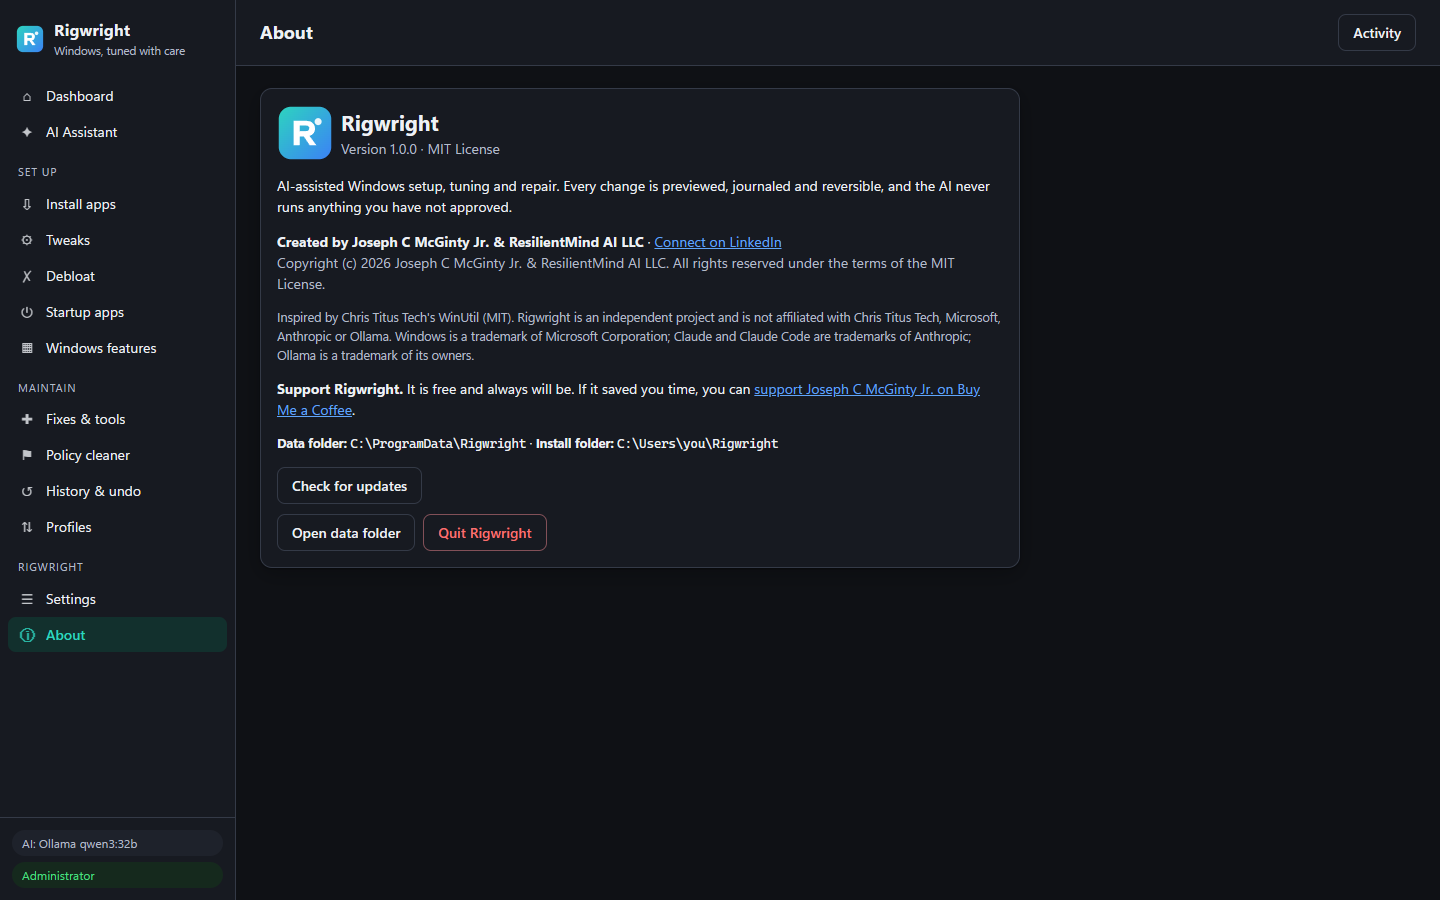
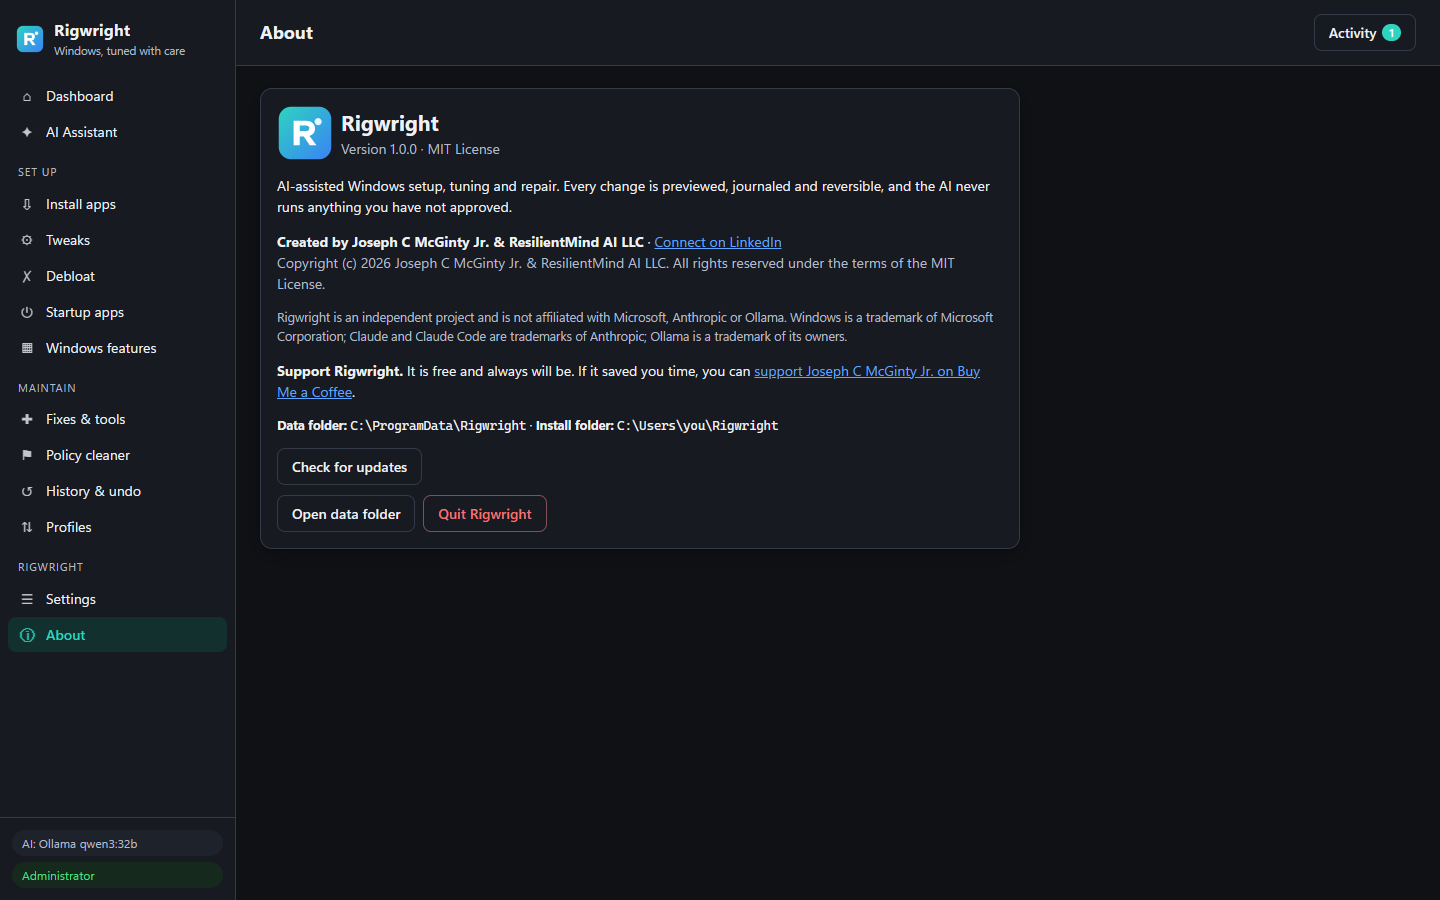
Catalog additions for issues #1-#14, docs cleanup, clone and update-check notes
- 5 new tweaks, 6 new apps, 15 OEM debloat entries, WebView2 repair fix
- Remove third-party project references from README, About page and
  docs/COMPARISON.md; recapture About screenshots
- README: clone from a normal folder with --depth 1; troubleshooting entry
  for HTTP/2 clone resets
- Update check: clearer message while the repository is not public

Closes #2, #3, #4, #6, #7, #9, #10, #11, #13, #14

Changed region(s): [[0.1875, 0.3422, 0.6875, 0.6222], [0.9062, 0.0311, 0.9688, 0.0622]]

diff --git a/web/app.js b/web/app.js
@@ -1214,7 +1214,7 @@ pages.about = async (v) => {
       <div class="row"><img src="icon.svg" alt="" width="56" height="56"><div><h2 style="margin:0">Rigwright</h2><div class="muted">Version ${esc(a.version)} &middot; ${esc(a.license)} License</div></div></div>
       <p>AI-assisted Windows setup, tuning and repair. Every change is previewed, journaled and reversible, and the AI never runs anything you have not approved.</p>
       <p><b>Created by Joseph C McGinty Jr. &amp; ResilientMind AI LLC</b> &middot; <a href="https://www.linkedin.com/in/joseph-mcginty-jr/" target="_blank" rel="noopener noreferrer">Connect on LinkedIn</a><br><span class="muted">${esc(a.copyright)}. All rights reserved under the terms of the MIT License.</span></p>
-      <p class="small muted">Inspired by Chris Titus Tech's WinUtil (MIT). Rigwright is an independent project and is not affiliated with Chris Titus Tech, Microsoft, Anthropic or Ollama. Windows is a trademark of Microsoft Corporation; Claude and Claude Code are trademarks of Anthropic; Ollama is a trademark of its owners.</p>
+      <p class="small muted">Rigwright is an independent project and is not affiliated with Microsoft, Anthropic or Ollama. Windows is a trademark of Microsoft Corporation; Claude and Claude Code are trademarks of Anthropic; Ollama is a trademark of its owners.</p>
       <p><b>Support Rigwright.</b> It is free and always will be. If it saved you time, you can <a href="https://buymeacoffee.com/jcinc" target="_blank" rel="noopener noreferrer">support Joseph C McGinty Jr. on Buy Me a Coffee</a>.</p>
       <p class="small"><b>Data folder:</b> <span class="mono">${esc(a.dataDir)}</span> &middot; <b>Install folder:</b> <span class="mono">${esc(a.root)}</span></p>
       <div class="row"><button class="btn" id="chkUpd">Check for updates</button><span id="updRes" class="small muted"></span></div>

diff --git a/docs/COMPARISON.md b/docs/COMPARISON.md
@@ -1,11 +1,11 @@
-# Rigwright vs. WinUtil and similar tools
+# Rigwright compared with typical Windows tweak tools
 
-Rigwright started from a review of Chris Titus Tech's **WinUtil**: its repository, documentation, GitHub issues and
-discussions. I also looked at O&O ShutUp10++, Win11Debloat, Sophia Script, privacy.sexy, Winhance, Winpilot and
-UniGetUI. WinUtil is a great project with a huge community. This page records what users praised, what they
-complained about, and how Rigwright responds to each point.
+Rigwright started from a review of the public issue trackers, forums and documentation of popular Windows
+tweak, debloat and setup tools (among them O&O ShutUp10++, Win11Debloat, Sophia Script, privacy.sexy, Winhance,
+Winpilot and UniGetUI). This page records what users of such tools praise, what they complain about, and how
+Rigwright responds to each point.
 
-## What WinUtil users love (kept and expanded)
+## What users like about all-in-one tools (kept and expanded)
 
 | Praised | In Rigwright |
 |---|---|
@@ -17,20 +17,20 @@ complained about, and how Rigwright responds to each point.
 
 ## Common complaints and how Rigwright handles them
 
-| Complaint (examples from WinUtil issues) | Rigwright's approach |
+| Complaint (recurring across tweak-tool issue trackers) | Rigwright's approach |
 |---|---|
-| **Undo doesn't really undo** (#905, #487, #4242, discussion #1692). Undo writes hard-coded "defaults", which leaves policy keys behind and the "managed by your organization" banner. | **State-capture journal**: the true original value is recorded before the first change and restored exactly. Values that didn't exist are deleted. A separate **Policy cleaner** removes leftover policies after a full backup. |
-| **Tweaks drift or regress after Windows updates.** The "Set services to manual" list went stale (#3876), and preference toggles broke (#3189). | Live **state detection** for every tweak, plus **drift detection** with one-click reapply. Builds are checked with `minBuild` / `maxBuild`. The services tweak is a short, conservative list of services switched to Manual, not Disabled. |
-| **Windows Update broken** (#976, "Creator leaves WaaSMedicSvc disabled", "Update profiles not working") | There is no "disable updates" option. **Protected services** cannot be disabled. Update options are deferral, version pin, pause and "no auto restart", all reversible. |
+| **Undo doesn't really undo.** Undo writes hard-coded "defaults", which leaves policy keys behind and the "managed by your organization" banner. | **State-capture journal**: the true original value is recorded before the first change and restored exactly. Values that didn't exist are deleted. A separate **Policy cleaner** removes leftover policies after a full backup. |
+| **Tweaks drift or regress after Windows updates.** Service lists go stale and preference toggles break on new builds. | Live **state detection** for every tweak, plus **drift detection** with one-click reapply. Builds are checked with `minBuild` / `maxBuild`. The services tweak is a short, conservative list of services switched to Manual, not Disabled. |
+| **Windows Update broken** by "disable updates" options that leave the update stack half-off. | There is no "disable updates" option. **Protected services** cannot be disabled. Update options are deferral, version pin, pause and "no auto restart", all reversible. |
 | **Collateral damage**: VPN without internet after IPv6/Teredo tweaks, Xbox services stuck, Edge removal breaking WebView2 apps | IPv6 is never disabled; there is a "Prefer IPv4" option instead. Xbox packages are marked "check note" and never pre-selected. Edge removal is not offered. Every tweak lists its side effects. The AI can spot a likely culprit in your recent history and suggest undoing it. |
-| **Automation hangs / UI freezes** (#4376) | Every operation is a background job, with a live log console, cancellation and a queue for changes. |
-| **No visibility into what a tweak does**, no dry run, thin logs | **Exact preview** (current → new for every value), daily logs, an action history, an exportable system report, and profile dry runs. |
+| **Automation hangs / UI freezes** during long jobs | Every operation is a background job, with a live log console, cancellation and a queue for changes. |
+| **No visibility into what a tweak does**, no dry run, thin logs | **Exact preview** (current -> new for every value), daily logs, an action history, an exportable system report, and profile dry runs. |
 | **`irm \| iex` trust problems and antivirus flags** | Distributed as a release zip with **SHA-256 sums** and a verification script. Nothing is downloaded and executed at runtime. The UI is local only and token-protected. |
-| **Explanations too thin** ("write better explanation for options") | Every tweak has a plain-language description and side effects. The AI can explain any tweak in context. |
-| **Category mistakes, stale app IDs** | The catalog test suite checks every winget ID against the live repository. All 127 are verified for 1.0.0. |
+| **Explanations too thin** | Every tweak has a plain-language description and side effects. The AI can explain any tweak in context. |
+| **Category mistakes, stale app IDs** | The catalog test suite checks every winget ID against the live repository. All are verified for each release. |
 | **Title bar clipped / small-screen issues** | Responsive layout that works down to phone width (useful with LAN access). |
 
-## Requested features that were missing (now included)
+## Frequently requested features that are included
 
 - A log console with readable per-step output
 - A full Defender scan button
@@ -53,8 +53,7 @@ complained about, and how Rigwright responds to each point.
 
 ## Not in 1.0 (roadmap)
 
-- **Image builder** (WinUtil's MicroWin / Win11 Creator): ISO customization, autounattend.xml, `$OEM$`, driver
-  injection.
+- **Image builder**: ISO customization, autounattend.xml, `$OEM$`, driver injection.
 - **Default User / Sysprep mode**: apply per-user tweaks to new accounts.
 - Scoop and more package sources.
 - CI that applies and undoes every tweak in Windows Sandbox VMs on each Insider build.

diff --git a/README.md b/README.md
@@ -31,7 +31,8 @@ If Windows shows "Windows protected your PC", click **More info → Run anyway**
 ```powershell
 # Option A - get the full app from source with Git (winget installs Git if you don't have it)
 winget install --id Git.Git -e
-git clone https://github.com/Subzero121800/RigWright.git
+cd ~\Downloads                      # any normal folder; not C:\Windows\System32
+git clone --depth 1 https://github.com/Subzero121800/RigWright.git
 cd RigWright
 .\Start-Rigwright.cmd
 
@@ -40,11 +41,13 @@ cd RigWright
 ```
 
 Running from source starts the PowerShell edition in its own app window. `Rigwright.exe` is included in the release zips.
+If the clone stops with `RPC failed; curl 92 HTTP/2 stream ... reset`, run `git config --global http.version HTTP/1.1` once and retry
+(see [docs/TROUBLESHOOTING.md](docs/TROUBLESHOOTING.md)).
 </details>
 
 ---
 
-Rigwright is a free, open-source all-in-one Windows utility in the spirit of Chris Titus Tech's [WinUtil](https://github.com/ChrisTitusTech/winutil). I rebuilt it around the problems users report most with tools like that: undo that doesn't really undo, tweaks that quietly break Windows Update or VPNs, a window that freezes during long jobs, no way to see exactly what will change, and having to trust `irm | iex`.
+Rigwright is a free, open-source all-in-one Windows utility. It was built around the problems people report most with Windows tweak tools: undo that doesn't really undo, tweaks that quietly break Windows Update or VPNs, a window that freezes during long jobs, no way to see exactly what will change, and having to trust `irm | iex`.
 
 On top of that, it adds an **AI assistant**. You describe what you want in plain English ("make this faster for gaming but keep Game Pass working", "my VPN connects but there's no internet") and get a reviewed, checkbox-by-checkbox plan. The assistant can use:
 
@@ -352,7 +355,7 @@ Rigwright/
 - [docs/ARCHITECTURE.md](docs/ARCHITECTURE.md): how the pieces fit together
 - [docs/AI.md](docs/AI.md): providers, models, the bridge, prompts and guard rails
 - [docs/TWEAK-SCHEMA.md](docs/TWEAK-SCHEMA.md): how to write a tweak, app, fix or preset
-- [docs/COMPARISON.md](docs/COMPARISON.md): what Rigwright does differently from WinUtil and similar tools, and why
+- [docs/COMPARISON.md](docs/COMPARISON.md): the problems with typical Windows tweak tools and how Rigwright handles each one
 - [docs/TROUBLESHOOTING.md](docs/TROUBLESHOOTING.md): common problems and fixes
 - [docs/PRIVACY.md](docs/PRIVACY.md): what data goes where, per AI provider
 - [docs/GOVERNED-AGENTS.md](docs/GOVERNED-AGENTS.md): *Governed agents on the desktop: the Rigwright pattern*. The AI proposes, a catalog validates, a human approves and a journal rolls back.
@@ -374,4 +377,4 @@ Rigwright is free and always will be. If it saved you time, you can
 **Created by Joseph C McGinty Jr. & ResilientMind AI LLC.** Connect on [LinkedIn](https://www.linkedin.com/in/joseph-mcginty-jr/).
 Copyright © 2026 Joseph C McGinty Jr. & ResilientMind AI LLC. Released under the [MIT License](LICENSE).
 
-Inspired by [Chris Titus Tech's WinUtil](https://github.com/ChrisTitusTech/winutil) (MIT) and informed by O&O ShutUp10++, Win11Debloat, Sophia Script, privacy.sexy and UniGetUI. Rigwright is an independent project, not affiliated with or endorsed by Chris Titus Tech, Microsoft, Anthropic or Ollama. Windows is a trademark of Microsoft Corporation. Claude and Claude Code are trademarks of Anthropic, PBC. Ollama is a trademark of its respective owner.
+Informed by the approaches of O&O ShutUp10++, Win11Debloat, Sophia Script, privacy.sexy and UniGetUI. Rigwright is an independent project, not affiliated with or endorsed by Microsoft, Anthropic or Ollama. Windows is a trademark of Microsoft Corporation. Claude and Claude Code are trademarks of Anthropic, PBC. Ollama is a trademark of its respective owner.

diff --git a/CHANGELOG.md b/CHANGELOG.md
@@ -10,6 +10,13 @@ All notable changes to Rigwright are documented here. The format follows
 The first public release combines the initial build below with these changes.
 
 ### Added
+- Tweaks: throttle Delivery Optimization in the background, disable Windows Spotlight on the desktop, hide the
+  "Learn about this picture" icon, disable the Connected Devices Platform service (side effects documented), and run
+  Storage Sense weekly (#2, #3, #4, #6, #7).
+- Apps: eM Client, Betterbird, Chocolatey, Chocolatey GUI, Shutter Encoder and Avidemux (#9, #10, #11).
+- Debloat: 15 MSI and Acer preinstalled-app entries with verified package names and Store ids (#13).
+- Fix: "Reset Microsoft Edge WebView2 runtime" (#14).
+- Interactive screenshot gallery (docs/gallery.html, served by GitHub Pages) and README slideshow.
 - **One-click "Install & connect Claude Code"** for people with a Claude subscription. It installs the official
   `Anthropic.ClaudeCode` winget package, adds it to PATH, opens `claude auth login --claudeai`, waits for sign-in,
   switches Rigwright to Claude Code and tests it. The Settings page shows live Claude Code status.

diff --git a/docs/TROUBLESHOOTING.md b/docs/TROUBLESHOOTING.md
@@ -27,6 +27,18 @@ Install it from the Install page (*Runtimes → WebView2 Runtime*) or with
 Install the *.NET Desktop Runtime 9*, or build a self-contained exe with
 `tools\Build-Release.ps1 -SelfContained`.
 
+### `git clone` fails with "RPC failed; curl 92 HTTP/2 stream reset" or "early EOF"
+
+The repository includes about 45 MB of screenshots, and some connections or proxies reset large HTTP/2 transfers.
+Run the clone from a normal folder such as `~\Downloads` (not `C:\Windows\System32`) and tell Git to use HTTP/1.1:
+
+```powershell
+git config --global http.version HTTP/1.1
+git clone --depth 1 https://github.com/Subzero121800/RigWright.git
+```
+
+If it still fails, download the release zip instead; it contains everything needed to run Rigwright.
+
 ## Tweaks
 
 **A tweak shows "partly applied".**
